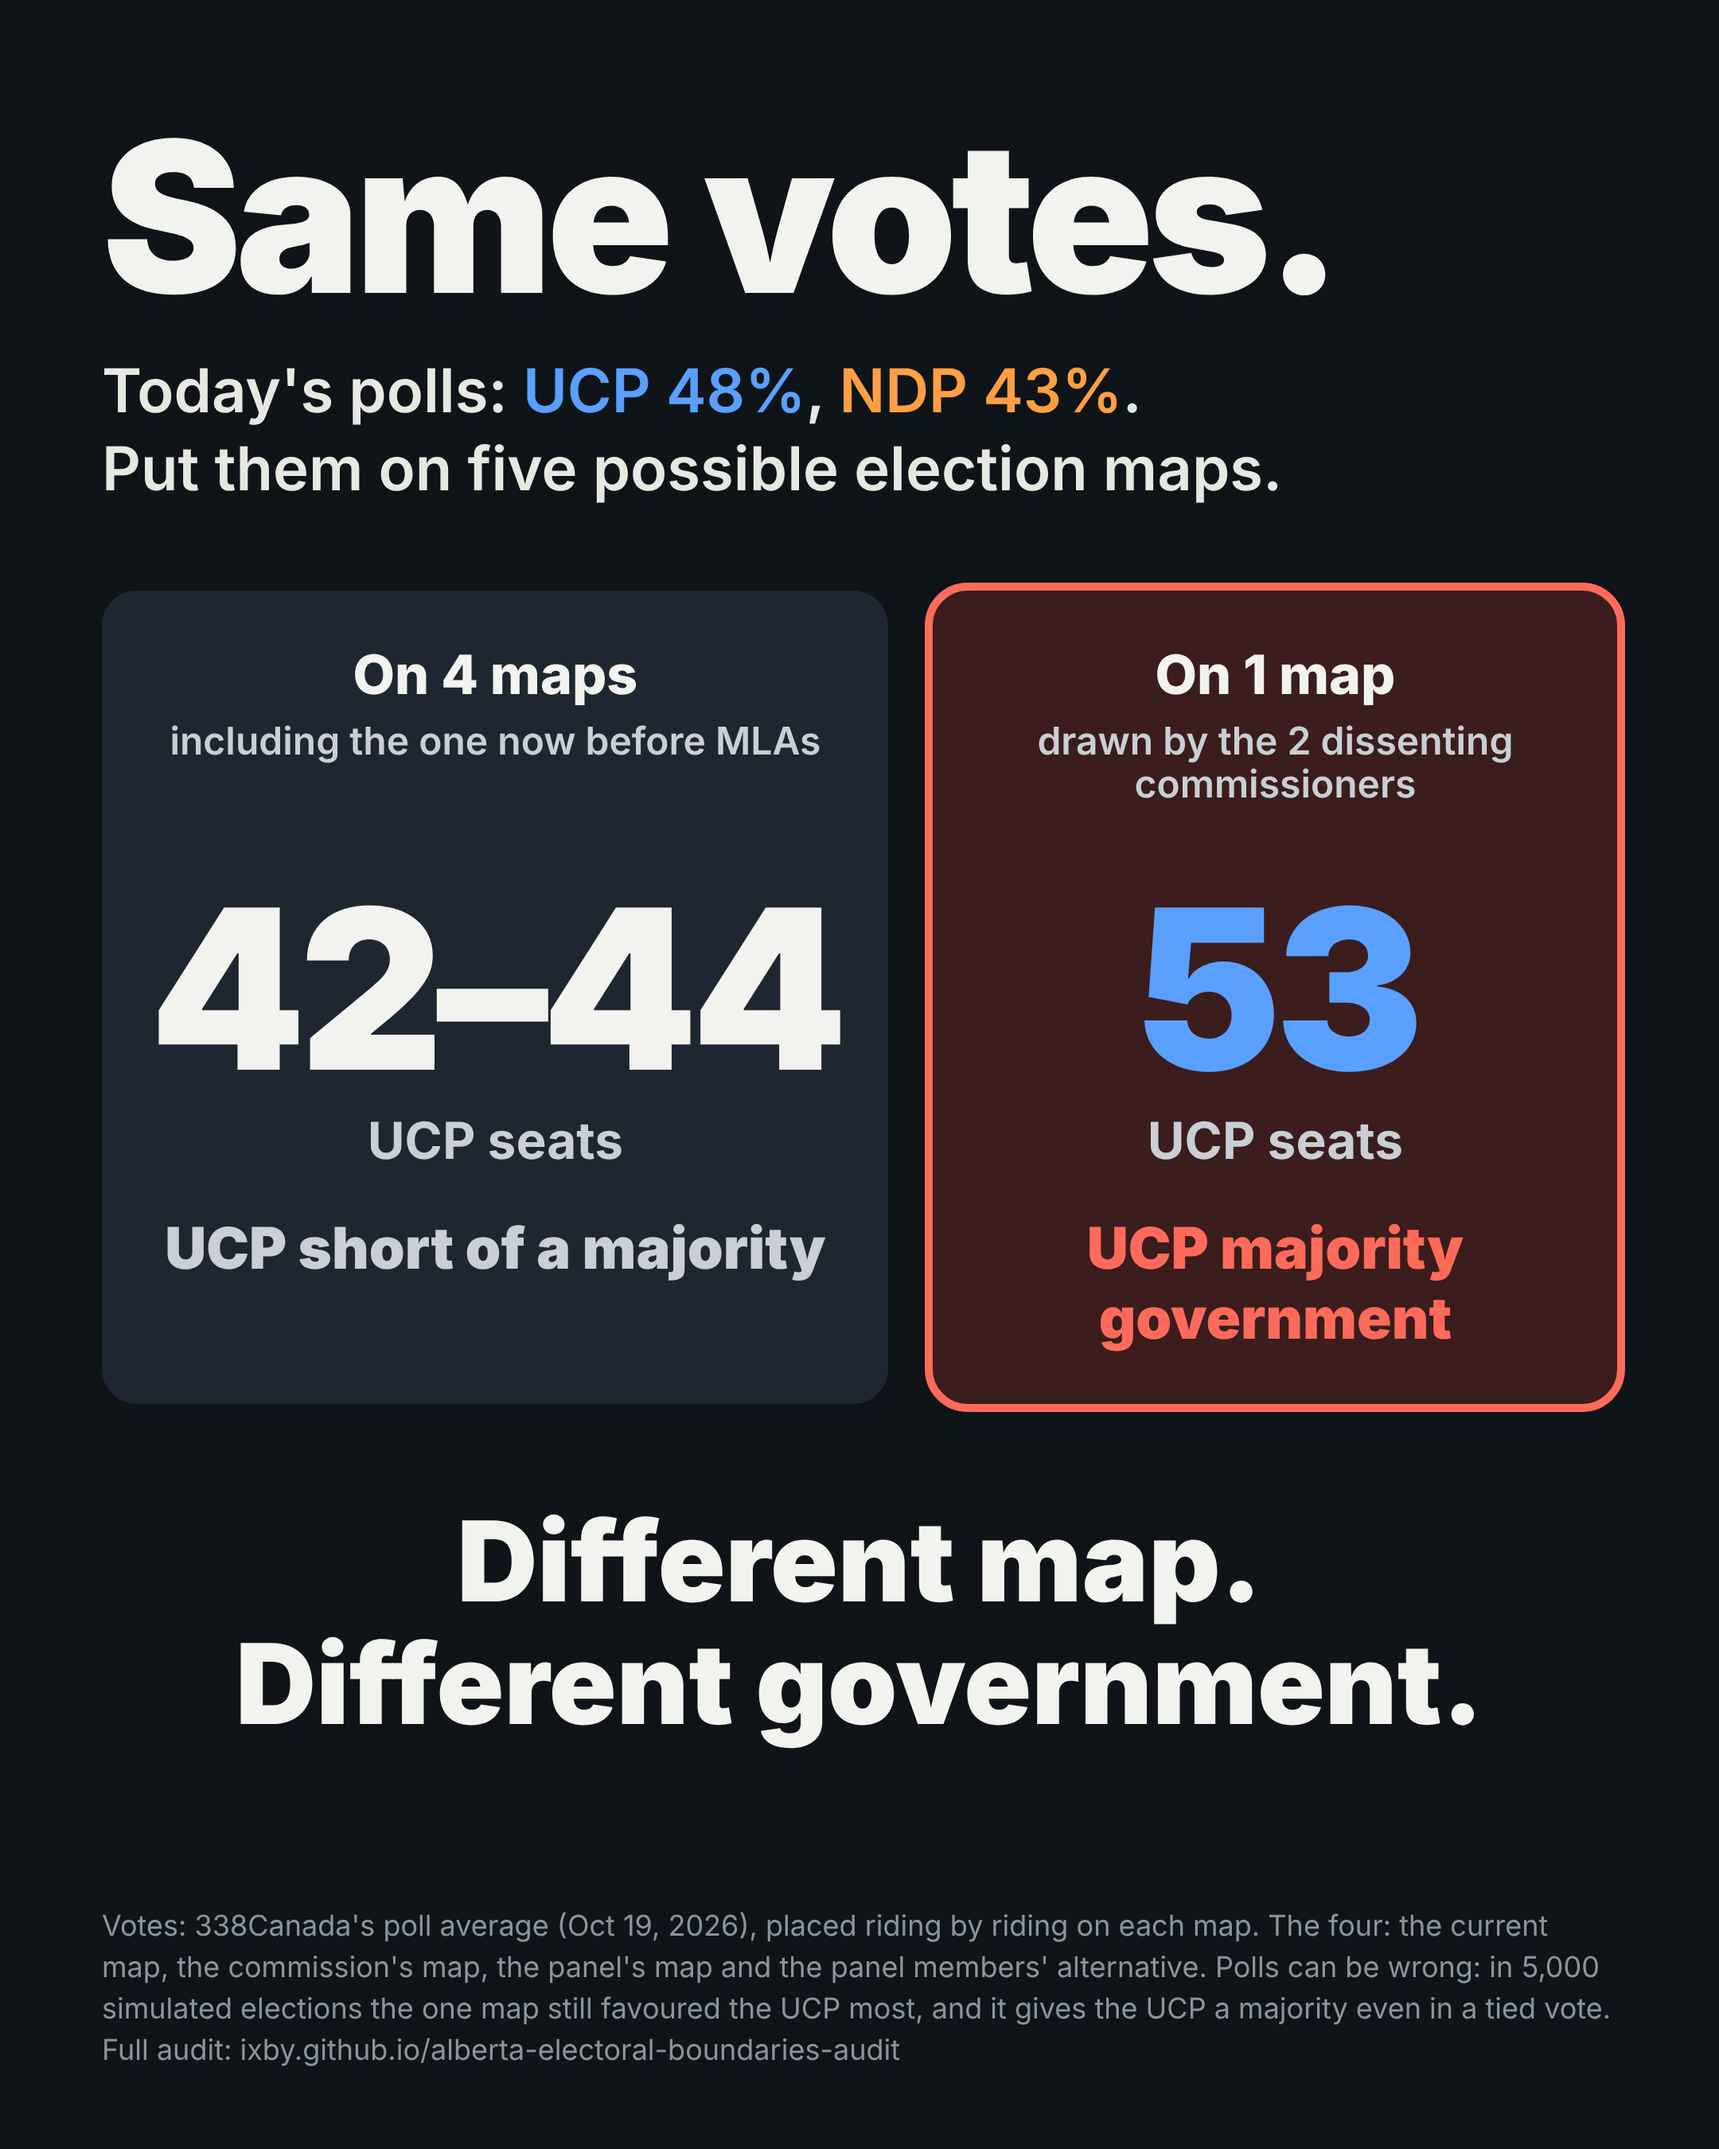
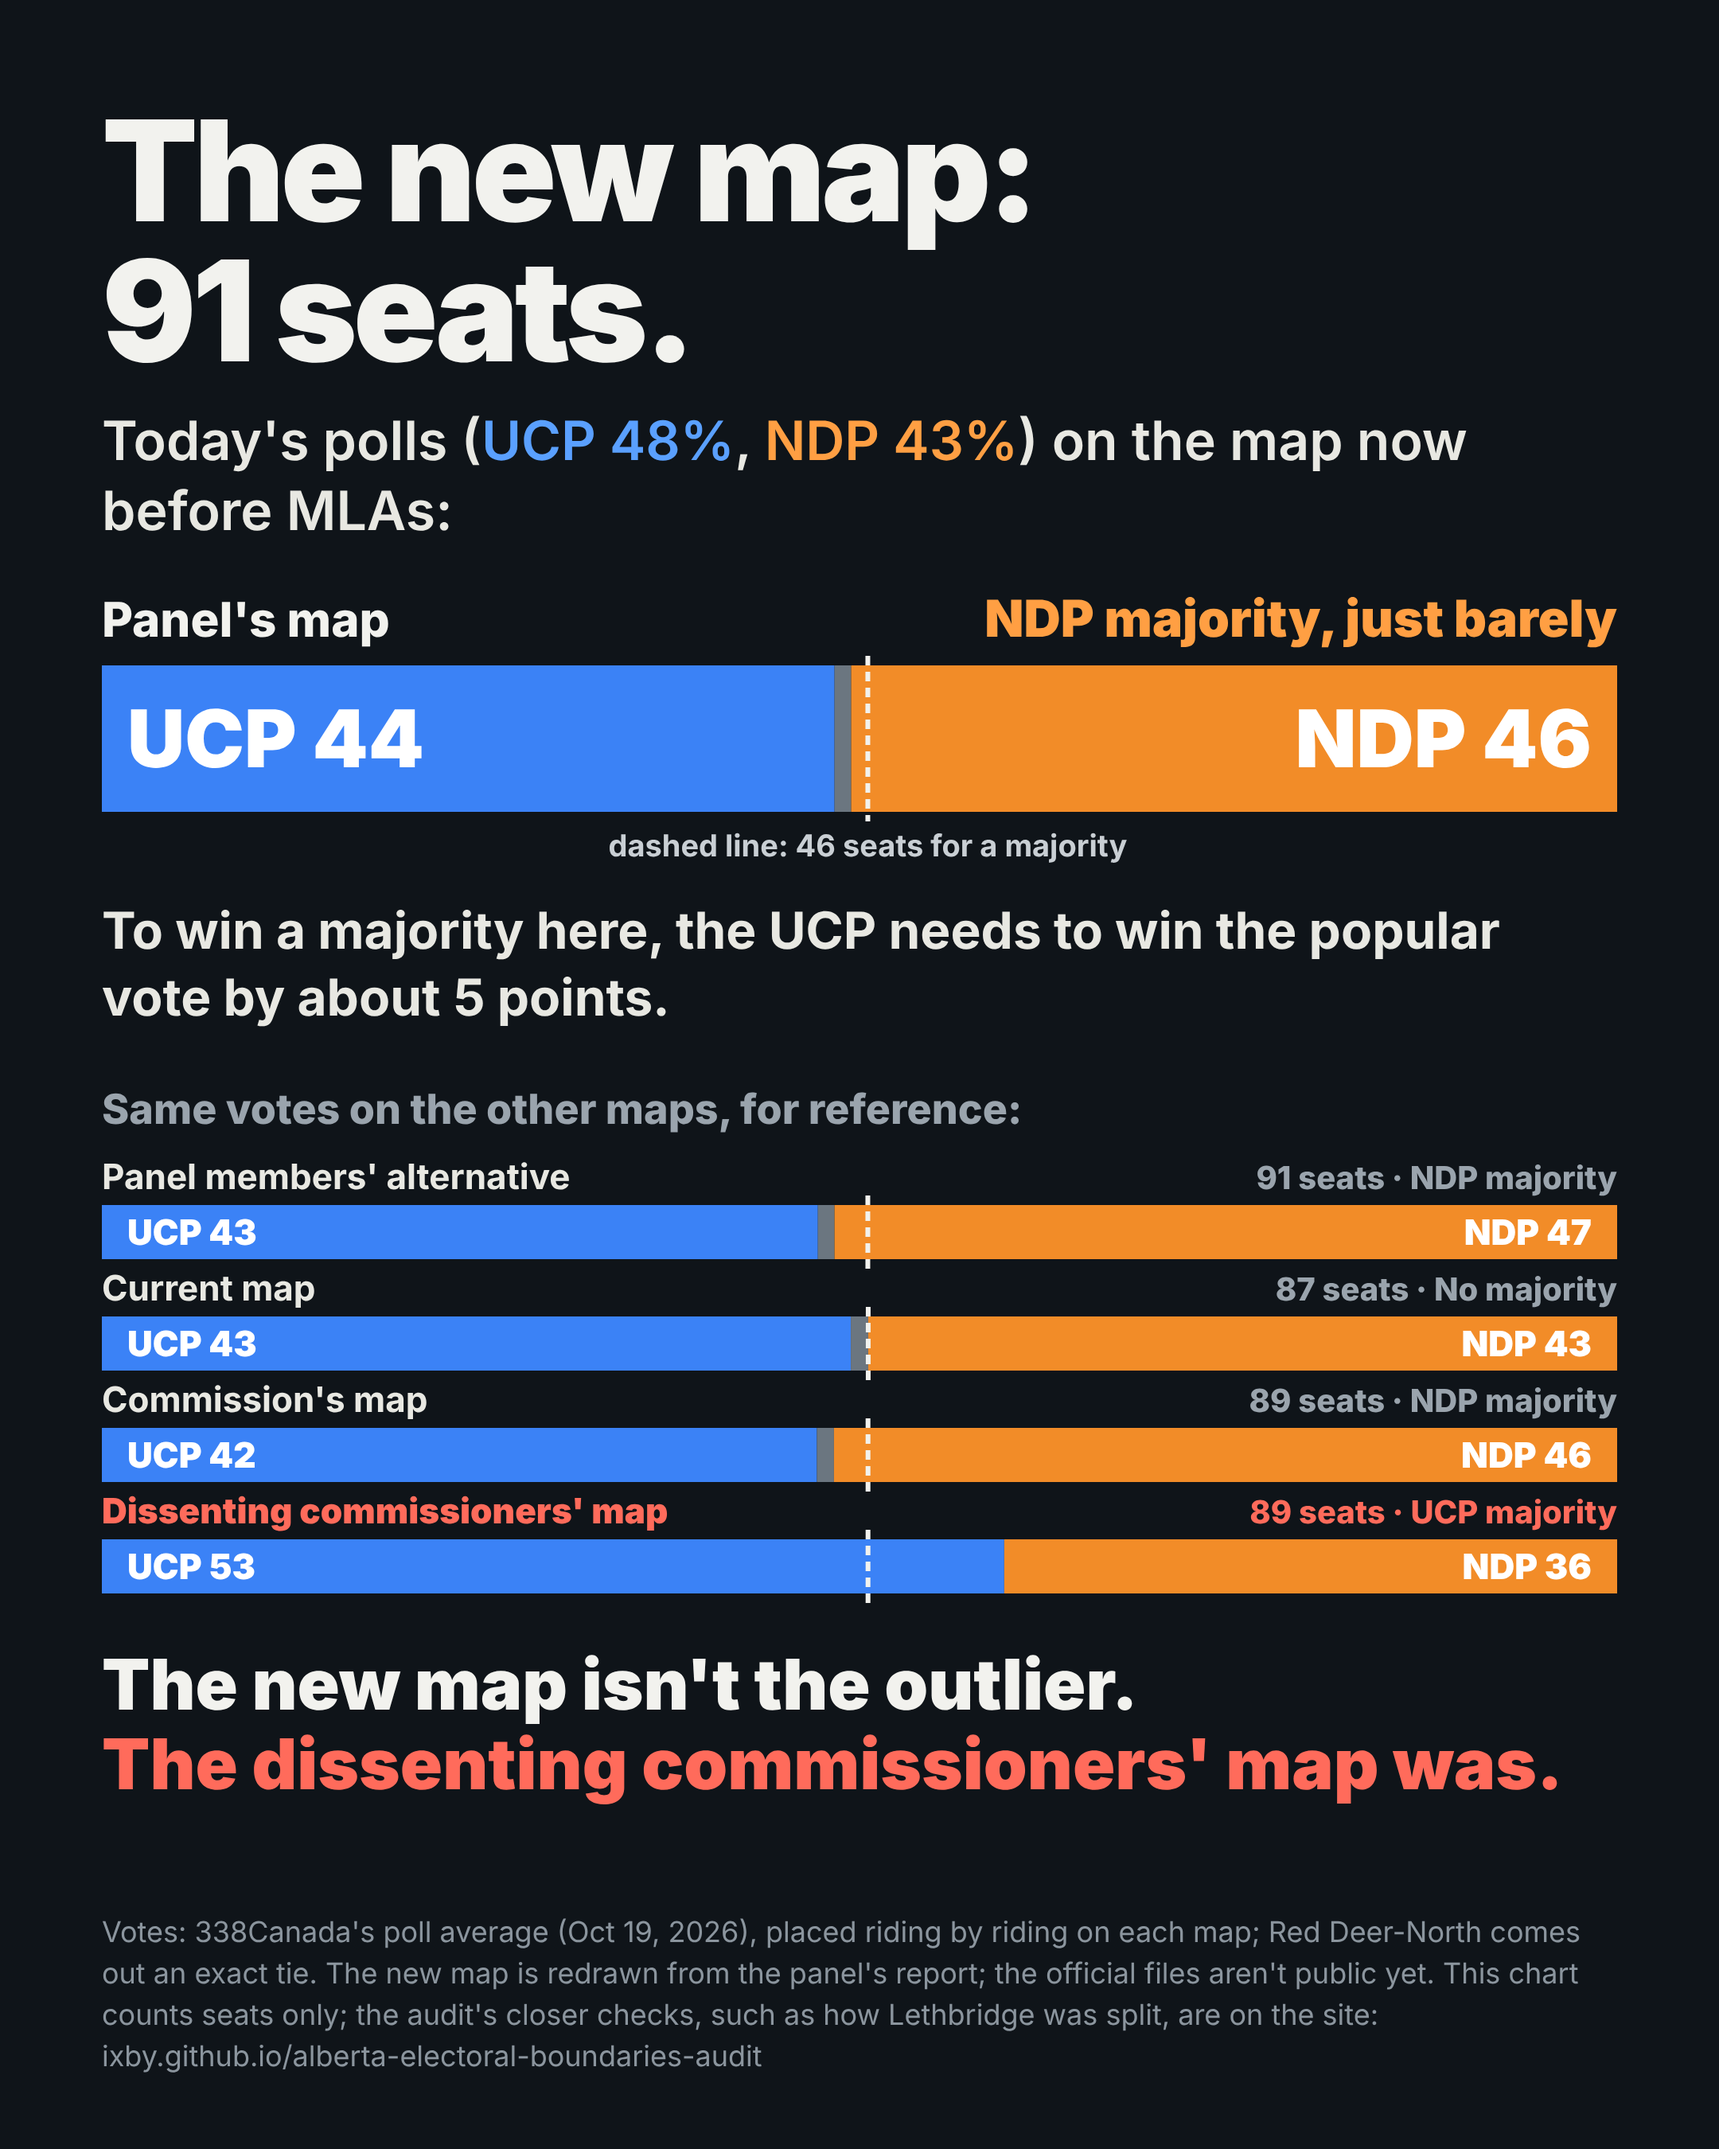
Chart: centre on the 91-seat map now before MLAs; other maps as reference
Wuff: the 91-seat numbers are what matter now. The previous version lumped 87-, 89- and
91-seat maps into one "42-44" range, which mixes seat totals. The chart now leads with the
panel's map (UCP 44, NDP 46, tie 1 of 91; the UCP needs a ~5-point popular-vote win for a
majority) and shows the other four maps below, each with its own total. On this measure the
new map is in line with the others; the outlier is the dissenting commissioners' map.

Claude-Session: https://claude.ai/code/session_018fR2piQUSLgKm3yG7SKLG7

diff --git a/findings/p338_projection/meme/same_votes_five_maps.html b/findings/p338_projection/meme/same_votes_five_maps.html
@@ -1,48 +1,63 @@
 <!doctype html>
 <html><head><meta charset="utf-8">
-<!-- Numbers from findings/p338_projection/out/results.json point.<map>.proportional:
-     UCP seats 2019 map 43, commission majority 42, panel 44, panel minority (para 167) 43 -> "42-44"; commission minority 53.
-     "Even if the vote were tied": seats_vs_lead.csv at the step nearest a zero lead gives the commission minority's map UCP 46 of 89 (majority 45). -->
+<!-- Numbers from findings/p338_projection/out/results.json point.<map>.proportional (seats at 338's central numbers)
+     and lead_needed.panel.ucp_majority_from_lead_pts (5.3). Panel map: UCP 44, NDP 46, tie 1 of 91, majority 46. -->
 <style>
   html,body{margin:0;padding:0;background:#0f1419;}
-  .card{width:1080px;height:1350px;box-sizing:border-box;padding:70px 64px 48px;background:#0f1419;color:#f2f2ee;
+  .card{width:1080px;height:1350px;box-sizing:border-box;padding:64px 64px 44px;background:#0f1419;color:#f2f2ee;
         font-family:"Helvetica Neue",Arial,sans-serif;display:flex;flex-direction:column;}
-  h1{font-size:132px;line-height:1.0;margin:0 0 20px;font-weight:900;letter-spacing:-.03em;}
-  .q{font-size:38px;line-height:1.3;color:#e8e8e2;margin:0 0 50px;font-weight:600;}
+  h1{font-size:88px;line-height:1.0;margin:0 0 16px;font-weight:900;letter-spacing:-.03em;}
+  .q{font-size:34px;line-height:1.3;color:#e8e8e2;margin:0 0 26px;font-weight:600;}
   .q .u{color:#5aa0ff} .q .n{color:#ff9f43}
-  .boxes{display:flex;gap:28px;}
-  .box{flex:1;border-radius:22px;padding:34px 30px 32px;text-align:center;}
-  .a{background:#1e2731;}
-  .b{background:#3b1d1d;outline:5px solid #ff6b5b;}
-  .who{font-size:34px;font-weight:800;line-height:1.15;min-height:112px}
-  .who small{display:block;font-size:24px;font-weight:600;color:#c9cfd4;margin-top:8px}
-  .big{font-size:140px;font-weight:900;line-height:1;margin:34px 0 6px;letter-spacing:-.03em;white-space:nowrap}
-  .a .big{color:#f2f2ee} .b .big{color:#5aa0ff}
-  .lbl{font-size:32px;font-weight:700;color:#c9cfd4}
-  .verdict{margin-top:26px;font-size:36px;font-weight:900}
-  .a .verdict{color:#c9cfd4} .b .verdict{color:#ff6b5b}
-  .tie{font-size:24px;color:#ff9a8f;font-weight:700;margin-top:8px}
-  .punch{margin-top:60px;font-size:70px;line-height:1.1;font-weight:900;text-align:center}
-  .foot{margin-top:auto;font-size:18px;line-height:1.45;color:#8b959e;}
+  svg{flex-shrink:0;display:block}
+  svg text{font-family:"Helvetica Neue",Arial,sans-serif;}
+  .need{margin-top:18px;font-size:32px;line-height:1.3;font-weight:700;color:#e8e8e2}
+  .ref{margin-top:34px;font-size:26px;font-weight:800;color:#9aa4ad;margin-bottom:12px}
+  .punch{margin-top:24px;font-size:44px;line-height:1.15;font-weight:900}
+  .punch b{color:#ff6b5b}
+  .foot{margin-top:auto;padding-top:22px;font-size:18px;line-height:1.45;color:#8b959e;}
 </style></head>
 <body><div class="card">
-  <h1>Same votes.</h1>
-  <div class="q">Today's polls: <span class="u">UCP 48%</span>, <span class="n">NDP 43%</span>.<br>Put them on five possible election maps.</div>
-  <div class="boxes">
-    <div class="box a">
-      <div class="who">On 4 maps<small>including the one now before MLAs</small></div>
-      <div class="big">42–44</div>
-      <div class="lbl">UCP seats</div>
-      <div class="verdict">UCP short of a majority</div>
-    </div>
-    <div class="box b">
-      <div class="who">On 1 map<small>drawn by the 2 dissenting commissioners</small></div>
-      <div class="big">53</div>
-      <div class="lbl">UCP seats</div>
-      <div class="verdict">UCP majority government</div>
-    </div>
-  </div>
-  <div class="punch">Different map.<br>Different government.</div>
-  <div class="foot">Votes: 338Canada's poll average (Oct 19, 2026), placed riding by riding on each map. The four: the current map, the commission's map, the panel's map and the panel members' alternative. Polls can be wrong: in 5,000 simulated elections the one map still favoured the UCP most, and it gives the UCP a majority even in a tied vote. Full audit: ixby.github.io/alberta-electoral-boundaries-audit</div>
+  <h1>The new map:<br>91 seats.</h1>
+  <div class="q">Today's polls (<span class="u">UCP 48%</span>, <span class="n">NDP 43%</span>) on the map now before MLAs:</div>
+  <svg id="main" width="952" height="176" viewBox="0 0 952 176"></svg>
+  <div class="need">To win a majority here, the UCP needs to win the popular vote by about 5 points.</div>
+  <div class="ref">Same votes on the other maps, for reference:</div>
+  <svg id="refs" width="952" height="284" viewBox="0 0 952 284"></svg>
+  <div class="punch">The new map isn't the outlier.<br><b>The dissenting commissioners' map was.</b></div>
+  <div class="foot">Votes: 338Canada's poll average (Oct 19, 2026), placed riding by riding on each map; Red Deer-North comes out an exact tie. The new map is redrawn from the panel's report; the official files aren't public yet. This chart counts seats only; the audit's closer checks, such as how Lethbridge was split, are on the site: ixby.github.io/alberta-electoral-boundaries-audit</div>
 </div>
+<script>
+const NS = 'http://www.w3.org/2000/svg';
+const mk = id => { const svg = document.getElementById(id); return (tag, a, txt) => { const e = document.createElementNS(NS, tag); for (const k in a) e.setAttribute(k, a[k]); if (txt != null) e.textContent = txt; svg.appendChild(e); return e; }; };
+const UCP = '#3b82f6', NDP = '#f28c28', TIE = '#6b7680', W = 952;
+function bar(el, y, h, u, t, n, need, fs) {
+  const s = W / (u + t + n); let x = 0;
+  el('rect', {x, y, width: u * s, height: h, fill: UCP});
+  el('text', {x: 16, y: y + h / 2 + fs * 0.36, fill: '#fff', 'font-size': fs, 'font-weight': 900}, 'UCP ' + u);
+  x += u * s;
+  if (t) { el('rect', {x, y, width: t * s, height: h, fill: TIE}); x += t * s; }
+  el('rect', {x, y, width: n * s, height: h, fill: NDP});
+  el('text', {x: W - 16, y: y + h / 2 + fs * 0.36, fill: '#fff', 'font-size': fs, 'font-weight': 900, 'text-anchor': 'end'}, 'NDP ' + n);
+  el('line', {x1: need * s, y1: y - 6, x2: need * s, y2: y + h + 6, stroke: '#f2f2ee', 'stroke-width': 3, 'stroke-dasharray': '6 4'});
+}
+const m = mk('main');
+m('text', {x: 0, y: 30, fill: '#f2f2ee', 'font-size': 30, 'font-weight': 800}, "Panel's map");
+m('text', {x: W, y: 30, fill: '#ff9f43', 'font-size': 32, 'font-weight': 900, 'text-anchor': 'end'}, 'NDP majority, just barely');
+bar(m, 48, 92, 44, 1, 46, 46, 50);
+m('text', {x: 46 * W / 91, y: 168, fill: '#c9cfd4', 'font-size': 19, 'font-weight': 700, 'text-anchor': 'middle'}, 'dashed line: 46 seats for a majority');
+const r = mk('refs');
+const refs = [
+  {name: "Panel members' alternative", sub: '91 seats', u: 43, t: 1, n: 47, need: 46, verdict: 'NDP majority'},
+  {name: 'Current map', sub: '87 seats', u: 43, t: 1, n: 43, need: 44, verdict: 'No majority'},
+  {name: "Commission's map", sub: '89 seats', u: 42, t: 1, n: 46, need: 45, verdict: 'NDP majority'},
+  {name: "Dissenting commissioners' map", sub: '89 seats', u: 53, t: 0, n: 36, need: 45, verdict: 'UCP majority', hot: true},
+];
+refs.forEach((d, i) => {
+  const y = i * 70;
+  r('text', {x: 0, y: y + 22, fill: d.hot ? '#ff6b5b' : '#e8e8e2', 'font-size': 22, 'font-weight': d.hot ? 900 : 700}, d.name + '  ');
+  r('text', {x: W, y: y + 22, fill: d.hot ? '#ff6b5b' : '#9aa4ad', 'font-size': 20, 'font-weight': 800, 'text-anchor': 'end'}, d.sub + ' · ' + d.verdict);
+  bar(r, y + 32, 34, d.u, d.t, d.n, d.need, 22);
+});
+</script>
 </body></html>

diff --git a/findings/p338_projection/README.md b/findings/p338_projection/README.md
@@ -144,15 +144,17 @@ All files are in this folder, `p338/sim/`.
 - `out/tables.md` contains the generated tables.
 - `inputs/` holds copies of the audit files used, with `SHA256SUMS.txt`.
 
-## The chart: "Same votes."
+## The chart: "The new map: 91 seats."
 
-`data/maps/article/same_votes_five_maps.png` (1080×1350, rendered at 2×) is a meme for a general reader. It tells one story in one chain: same votes → different map → different government.
+`data/maps/article/same_votes_five_maps.png` (1080×1350, rendered at 2×) is a meme for a general reader. It centres on the map that matters now, the panel's 91-seat map before MLAs. The other maps appear only as reference, each with its own seat total, because seat counts can't be compared across 87-, 89- and 91-seat maps.
 
-- **Setup:** today's polls (338Canada's rounded 48–43) put on five possible maps.
-- **On 4 maps** (the current map, the commission's map, the panel's map and the panel members' alternative): the UCP gets 42–44 seats and falls short of a majority. These are 43, 42, 44 and 43 at 338's central numbers, from `out/results.json` `point.<map>.proportional`.
-- **On 1 map** (the dissenting commissioners'): the UCP gets 53 of 89 seats, a majority.
-- **Punchline:** "Different map. Different government." This holds at today's central numbers. The footer adds the caveat that polls can be wrong.
+- **The panel's map at today's polls:** UCP 44, NDP 46, 1 exact tie (Red Deer-North). That is 46 of 91 for the NDP, exactly the majority line. Source: `out/results.json` `point.panel.proportional`.
+- **What the UCP needs:** a popular-vote win of about 5 points for a majority on this map (`lead_needed.panel.ucp_majority_from_lead_pts` = 5.3).
+- **Reference, at the same votes:**
+  - Panel members' alternative (91 seats): 43–47.
+  - Current map (87): 43–43.
+  - Commission's map (89): 42–46.
+  - Dissenting commissioners' map (89): 53–36, a UCP majority.
+- **Punchline:** "The new map isn't the outlier. The dissenting commissioners' map was." This holds on this measure (seats at today's central numbers). The footer says the chart counts seats only, and points to the audit's local checks, such as the Lethbridge split. Those are a different question.
 
-The footer's robustness line has two sources. "Still favoured the UCP most" comes from every variant in `mc`, where the UCP majority odds are 76–82% on that map against 42–68% on the other four. "A majority even in a tied vote" comes from `out/seats_vs_lead.csv` at the step nearest a zero lead: UCP 46 of 89. Source: `meme/same_votes_five_maps.html`; render with `node meme/render.cjs` (Playwright, Chromium).
-
-Why most maps leave the UCP short despite a 5-point lead: on the current map at 338's numbers, the UCP's projected wins have a median margin of 23 points, against 11 for the NDP's (`out/districts_map2019.csv`). More UCP votes pile up where they aren't needed. The neutral ensemble shows the same lean.
+Why the UCP needs a clear lead on most maps: on the current map at 338's numbers, the UCP's projected wins have a median margin of 23 points, against 11 for the NDP's (`out/districts_map2019.csv`). The neutral ensemble shows the same lean. Source: `meme/same_votes_five_maps.html`; render with `node meme/render.cjs` (Playwright, Chromium).
